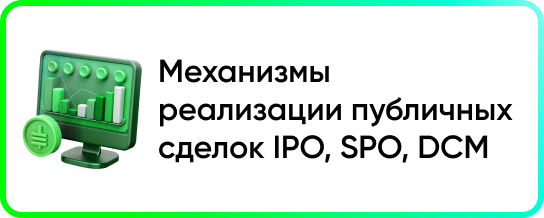
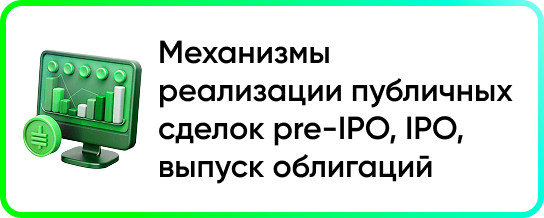
change mik-170

diff --git a/mik-170/Путь к IPO.html b/mik-170/Путь к IPO.html
@@ -102,7 +102,7 @@
                                         <tbody>
                                         <tr>
                                             <td style="width:600px;">
-                                                <a href="https://i.moscow/ipo?utm_source=pismo&utm_medium=email&utm_campaign=mik&utm_content=ipo&utm_term=2410" target="_blank">
+                                                <a href="https://i.moscow/ipo?utm_source=marketing&utm_medium=email&utm_campaign=digital&utm_content=ipo&utm_term=30072025r" target="_blank">
                                                     <img alt="Образовательная программа. Путь к IPO. Нажмите здесь, чтобы начать обучение" height="auto" src="https://cp.unisender.com/ru/user_file?resource=images&user_id=5608985&name=mik-170-hero.png" style="border:0;display:block;outline:none;text-decoration:none;height:auto;width:100%;font-size:13px;" width="600" />
                                                 </a>
                                             </td>
@@ -184,7 +184,7 @@
                                         <tbody>
                                         <tr>
                                             <td style="width:272px;">
-                                                <img alt="Механизмы реализации публичных сделок IPO, SPO, DCM" height="auto" src="https://cp.unisender.com/ru/user_file?resource=images&user_id=5608985&name=mik-170-list-img-1-1.png" style="border:0;display:block;outline:none;text-decoration:none;height:auto;width:100%;font-size:13px;" width="272" />
+                                                <img alt="Механизмы реализации публичных сделок pre-IPO, IPO, выпуск облигаций" height="auto" src="https://cp.unisender.com/ru/user_file?resource=images&user_id=5608985&name=mik-170-list-img-1-1.png" style="border:0;display:block;outline:none;text-decoration:none;height:auto;width:100%;font-size:13px;" width="272" />
                                             </td>
                                         </tr>
                                         </tbody>
@@ -287,7 +287,7 @@
                                     <table border="0" cellpadding="0" cellspacing="0" role="presentation" style="border-collapse:separate;max-width:292px;width:100%;line-height:100%;">
                                         <tr>
                                             <td align="center" bgcolor="#00FB07" role="presentation" style="border:none;border-radius:10px;cursor:auto;height:50px;mso-padding-alt:10px 25px;background: linear-gradient(80deg, #00FB07 34.41%, #00FED9 85.02%, #9FFFF6 103.22%);" valign="middle">
-                                                <a href="https://i.moscow/ipo?utm_source=pismo&utm_medium=email&utm_campaign=mik&utm_content=ipo&utm_term=2410" style="display:inline-block;color:#000000;font-family:Gilroy, Helvetica, Arial, sans-serif;font-size:25px;font-weight:500;line-height:30px;margin:0;text-decoration:none;text-transform:none;mso-padding-alt:0px;border-radius:5px;" target="_blank">Зарегистрироваться</a>
+                                                <a href="https://i.moscow/ipo?utm_source=marketing&utm_medium=email&utm_campaign=digital&utm_content=ipo&utm_term=30072025r" style="display:inline-block;color:#000000;font-family:Gilroy, Helvetica, Arial, sans-serif;font-size:25px;font-weight:500;line-height:30px;margin:0;text-decoration:none;text-transform:none;mso-padding-alt:0px;border-radius:5px;" target="_blank">Зарегистрироваться</a>
                                             </td>
                                         </tr>
                                     </table>
@@ -359,7 +359,7 @@
                                 <tbody>
                                 <tr>
                                     <td align="left" style="font-size:0px;word-break:break-word;padding:30px 0 9px;">
-                                        <div style="font-family: Gilroy, Helvetica, Arial, sans-serif;font-size:20px;font-weight:600;line-height:24px;text-align:left;color:#FFFFFF;">Теоретический блок</div>
+                                        <div style="font-family: Gilroy, Helvetica, Arial, sans-serif;font-size:20px;font-weight:600;line-height:24px;text-align:left;color:#FFFFFF;">Теоретический модуль</div>
                                     </td>
                                 </tr>
                                 <tr>
@@ -410,12 +410,12 @@
                                 <tbody>
                                 <tr>
                                     <td align="left" style="font-size:0px;word-break:break-word;padding:30px 0 9px;">
-                                        <div style="font-family: Gilroy, Helvetica, Arial, sans-serif;font-size:20px;font-weight:600;line-height:24px;text-align:left;color:#FFFFFF;">Практический блок</div>
+                                        <div style="font-family: Gilroy, Helvetica, Arial, sans-serif;font-size:20px;font-weight:600;line-height:24px;text-align:left;color:#FFFFFF;">Практический модуль</div>
                                     </td>
                                 </tr>
                                 <tr>
                                     <td align="left" style="font-size:0px;word-break:break-word;">
-                                        <div style="font-family: Gilroy, Helvetica, Arial, sans-serif;font-size:16px;font-weight:400;line-height:19.2px;text-align:left;color:#FFFFFF;">Лучшие участники проработают свои кейсы с&nbsp;экспертами рынка, получат реальный опыт от&nbsp;компаний, разместившихся на&nbsp;бирже</div>
+                                        <div style="font-family: Gilroy, Helvetica, Arial, sans-serif;font-size:16px;font-weight:400;line-height:19.2px;text-align:left;color:#FFFFFF;">Лучшие участники проработают дорожные карты по&nbsp;выходу на&nbsp;публичный рынок с&nbsp;экспертами рынка, получат реальный опыт от&nbsp;компаний, разместившихся на&nbsp;бирже</div>
                                     </td>
                                 </tr>
                                 </tbody>
@@ -606,7 +606,7 @@
                                         <table border="0" cellpadding="0" cellspacing="0" role="presentation" style="border-collapse:separate;max-width:292px;width:100%;line-height:100%;">
                                             <tr>
                                                 <td align="center" bgcolor="linear-gradient(80deg, #00FB07 34.41%, #00FED9 85.02%, #9FFFF6 103.22%)" role="presentation" style="border:none;border-radius:10px;cursor:auto;height:50px;mso-padding-alt:10px 25px;background:linear-gradient(80deg, #00FB07 34.41%, #00FED9 85.02%, #9FFFF6 103.22%);" valign="middle">
-                                                    <a href="https://i.moscow/ipo?utm_source=pismo&utm_medium=email&utm_campaign=mik&utm_content=ipo&utm_term=2410" style="display:inline-block;color:#000000;font-family: Gilroy, Helvetica, Arial, sans-serif;font-size:25px;font-weight:500;line-height:30px;margin:0;text-decoration:none;text-transform:none;mso-padding-alt:0px;border-radius:5px;" target="_blank">Принять участие</a>
+                                                    <a href="https://i.moscow/ipo?utm_source=marketing&utm_medium=email&utm_campaign=digital&utm_content=ipo&utm_term=30072025r" style="display:inline-block;color:#000000;font-family: Gilroy, Helvetica, Arial, sans-serif;font-size:25px;font-weight:500;line-height:30px;margin:0;text-decoration:none;text-transform:none;mso-padding-alt:0px;border-radius:5px;" target="_blank">Принять участие</a>
                                                 </td>
                                             </tr>
                                         </table>
